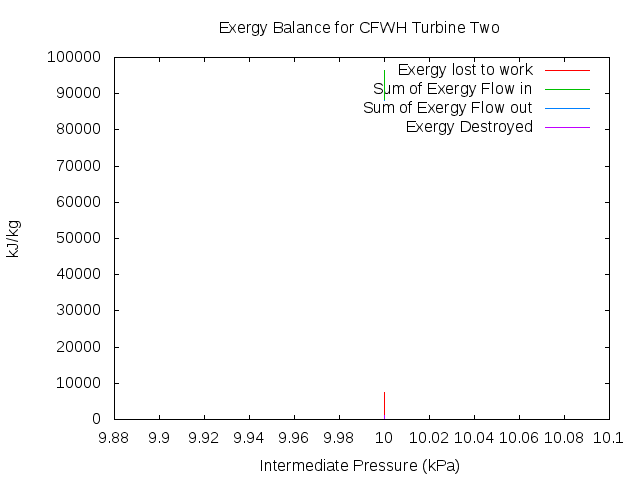
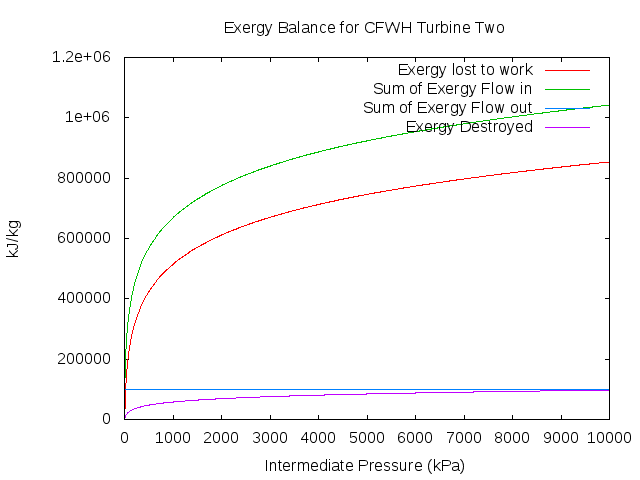
finished

diff --git a/CFWH.py b/CFWH.py
@@ -33,7 +33,7 @@ class CFWH(object):
         self.five = State('Water', P=p_1)
         self.pump_one = Pump(self.four, self.five)
         self.pump_one.isentropic(eta_p)
-        self.six = State('Water', P=p_1, T=400)
+        self.six = State('Water', P=p_1, T=350)
         self.six.define()
 
         self.seven = State('Water', P=p_2, Q=0)
@@ -46,7 +46,7 @@ class CFWH(object):
                 /(self.two.properties['h']-self.seven.properties['h']))
         self.y = y
         self.turb_two.exergyBalanceY(t0, p0, y)
-        self.pump_one.exergyBalanceY(t0, p0, y)
+        self.pump_one.exergyBalance(t0, p0)
         self.superHeater = Reheater(self.six, self.one)
         self.eta = (sum([self.turb_one.w, self.turb_two.w, self.pump_one.w])/
                     sum([self.superHeater.q]))
@@ -79,7 +79,7 @@ if __name__ == '__main__':
     pHigh = 100*10**5
     results = []
     int_p = []
-    for x in range(pLow+1, pHigh-1, 10000):
+    for x in range(pLow+1, pHigh-1, 10*10**3):
         int_p.append(x/1000)
         results.append(cfwh(x))
 

diff --git a/reheater.py b/reheater.py
@@ -36,9 +36,7 @@ class ReheatedRankine(object):
         self.superHeater = Reheater(self._six, self._one)
         self.eta = (sum([self.turb_two.w, self.turb_one.w, self.pump.w])/
                     sum([self.reheater.q, self.superHeater.q]))
-        self.E = (sum([self.turb_two.w, self.turb_one.w, self.pump.w])/
-                    sum([self.reheater.q, self.superHeater.q])*(1-TL/TH))
-
+        self.E = self.eta*(1/(1-float(TL)/float(TH)))
 def reheater(p_2):
     TL = 300
     TH = 650

diff --git a/model/CFeedWater.py b/model/CFeedWater.py
@@ -17,5 +17,5 @@ class CFeedWater(object):
         m_c = m_in[1]
         a = m_c*(yfc_out-yfc_in)
         b = m_h*(yfh_in-yfh_out)
-        self.ef = a/b
+        self.ef = b/a
         self.w = 0
